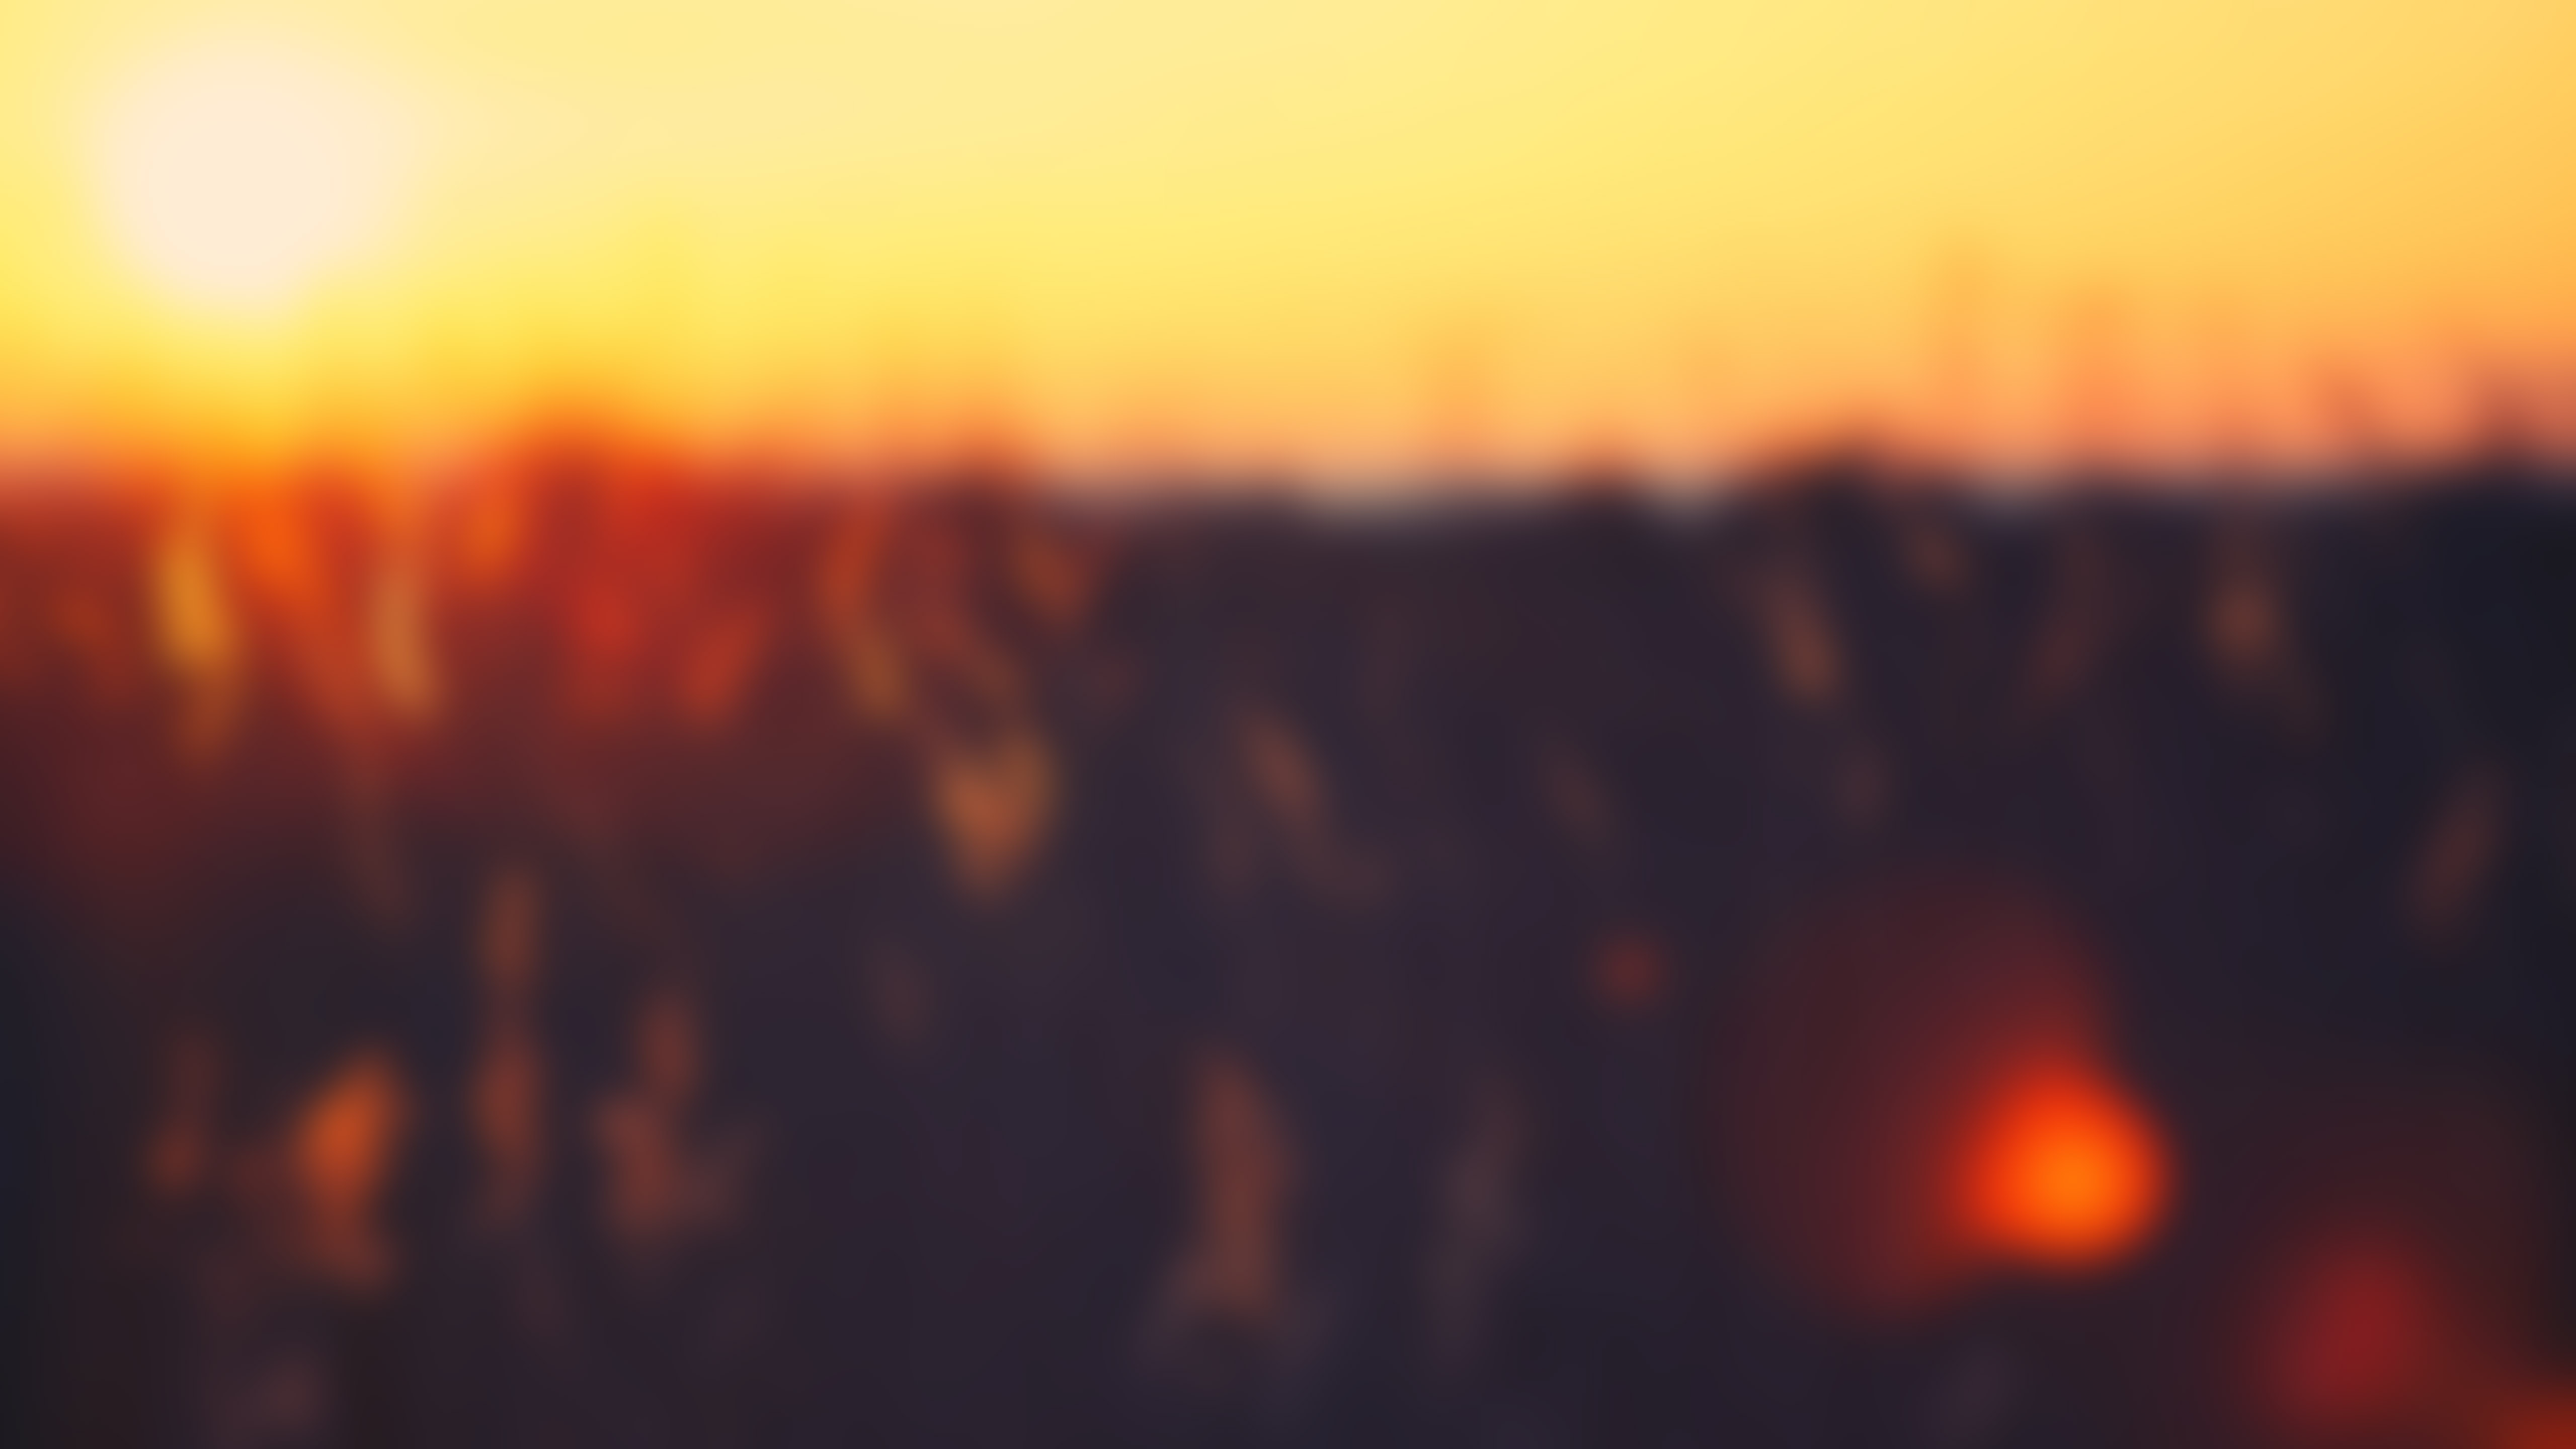
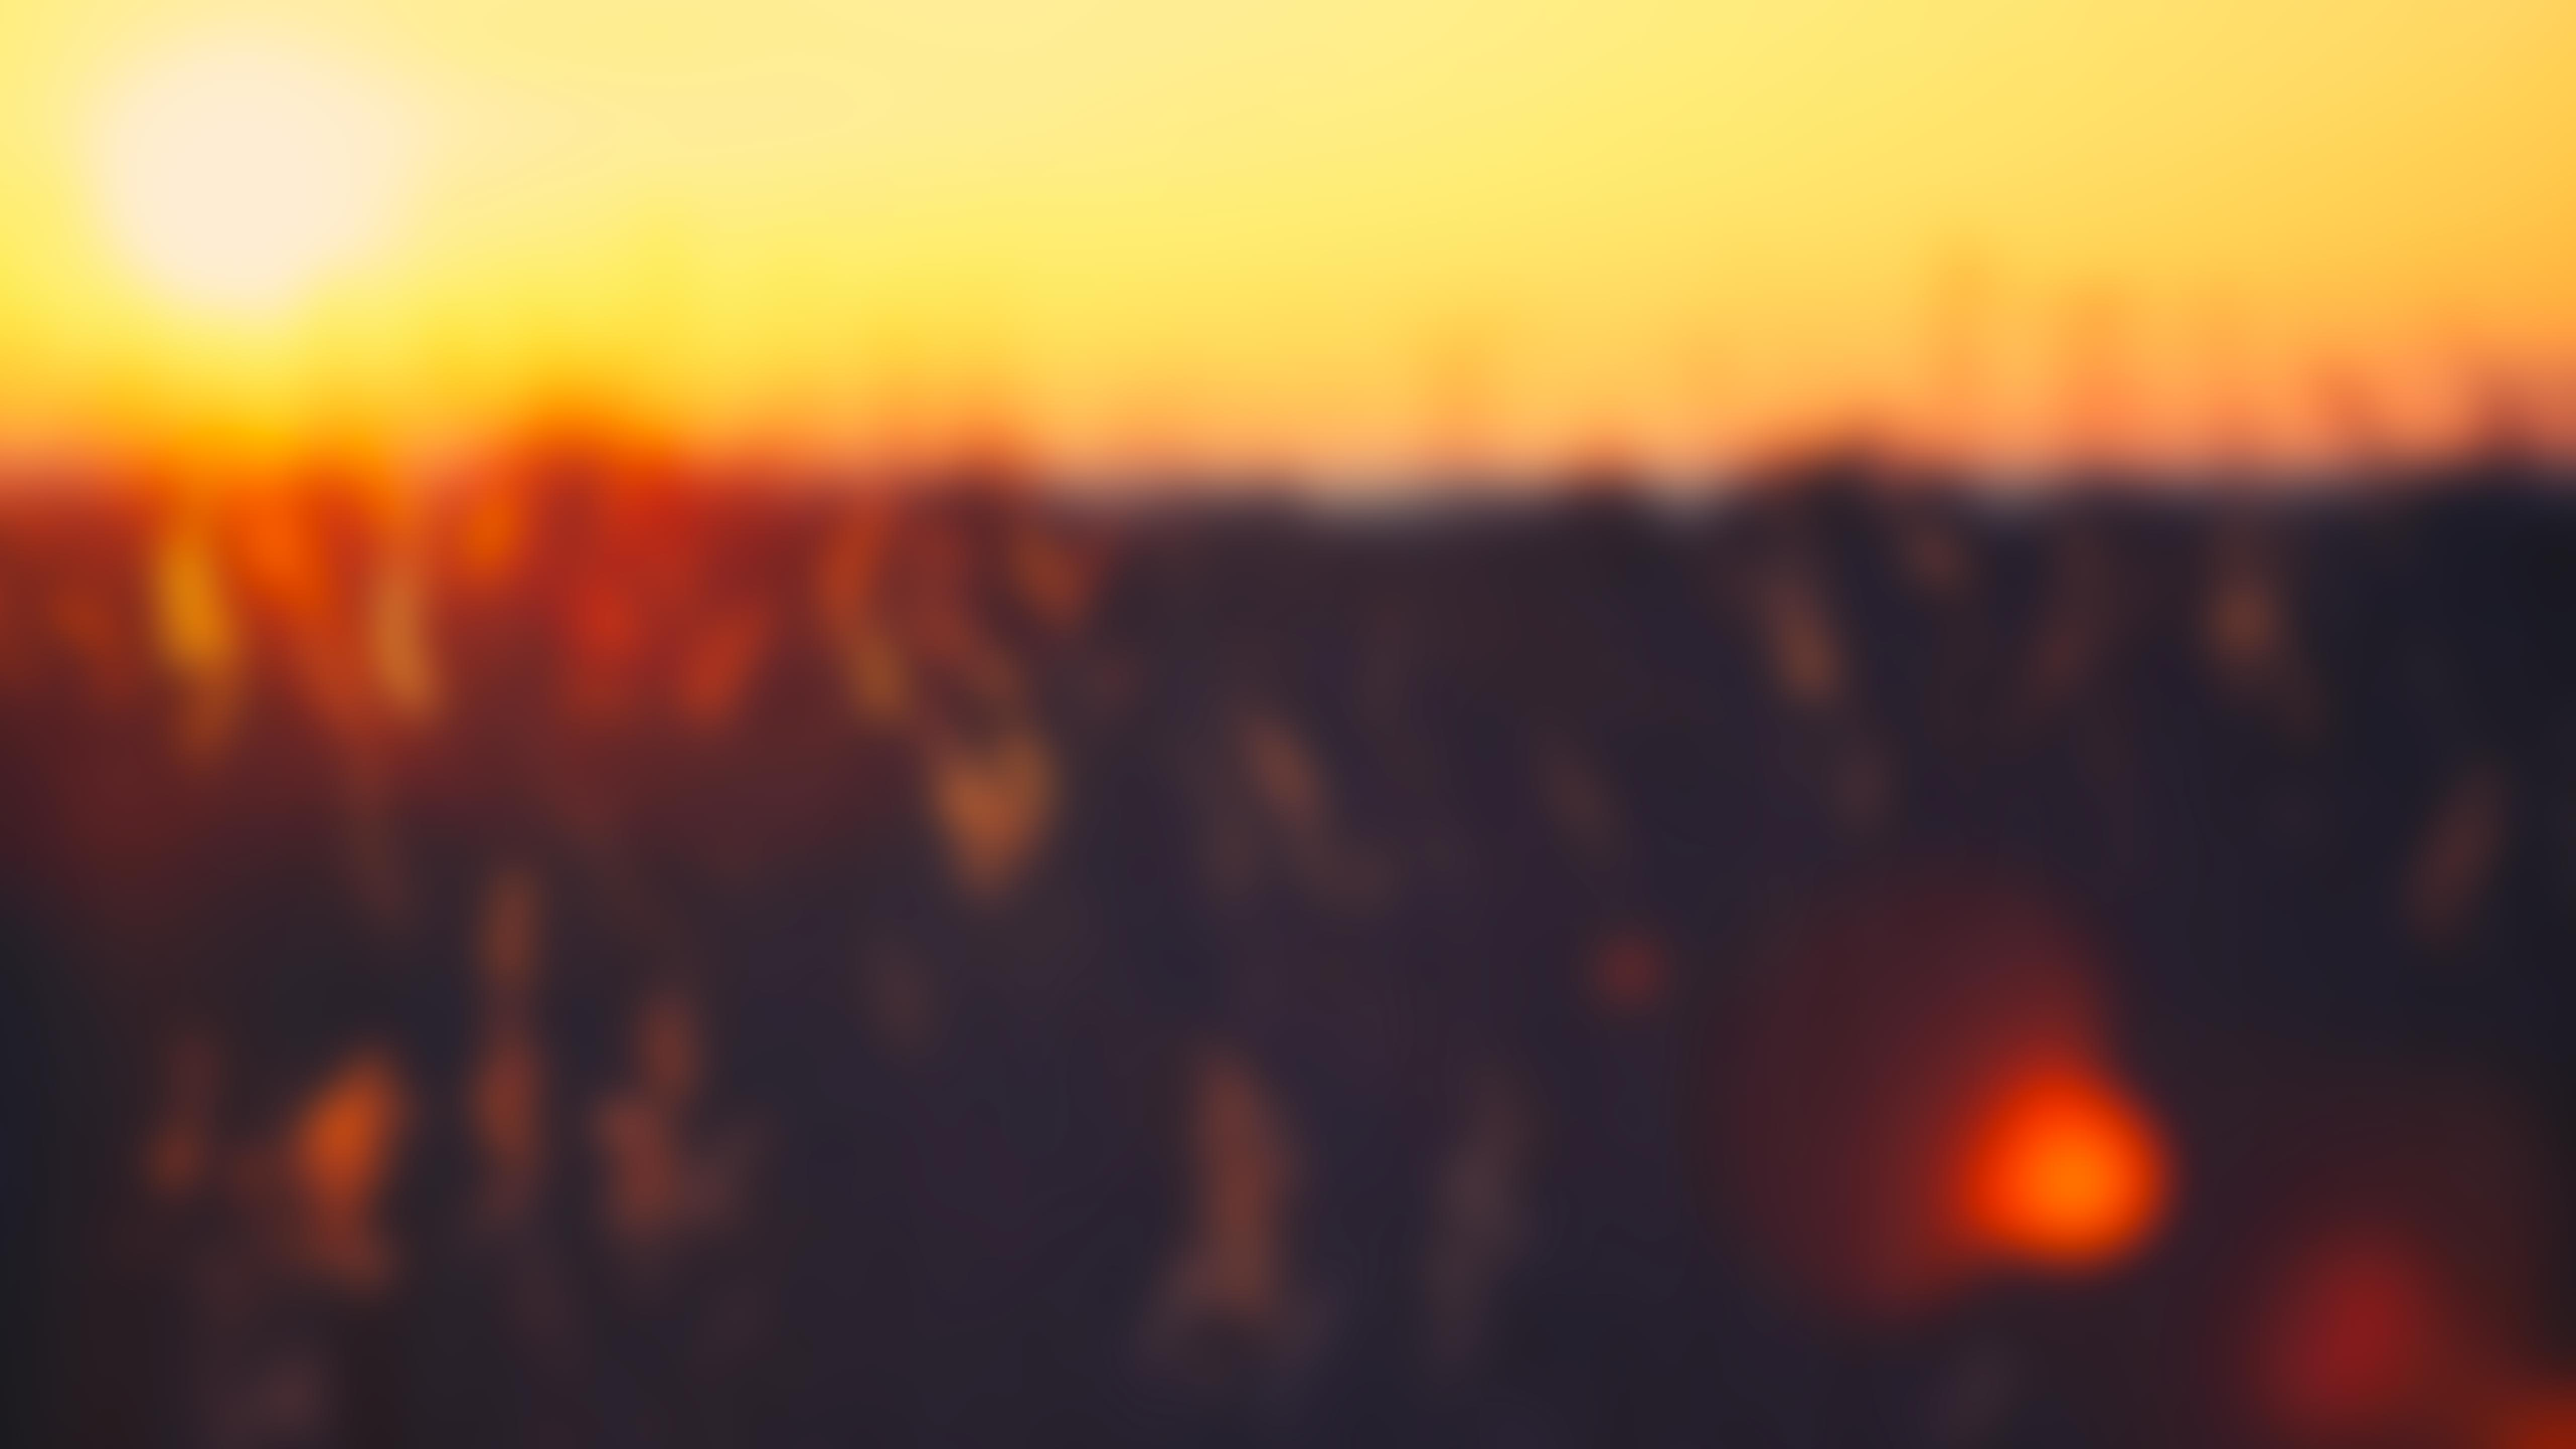
improved background

Changed region(s): [[0.0312, 0.2812, 0.1562, 0.4375], [0.1875, 0.25, 0.2812, 0.3438], [0.1875, 0.3438, 0.2188, 0.375]]

diff --git a/_sass/_base.scss b/_sass/_base.scss
@@ -23,10 +23,11 @@ body {
     bottom: 0;
     background-image: url('../images/background.jpg');
     background-size: cover;
-    background-position: center;
+    background-position: center bottom;
     will-change: opacity;
     transform: translate3d(0,0,0);
     z-index: -1;
+    pointer-events: none;
   }
 }
 _::-webkit-full-page-media, _:future, :root body {
